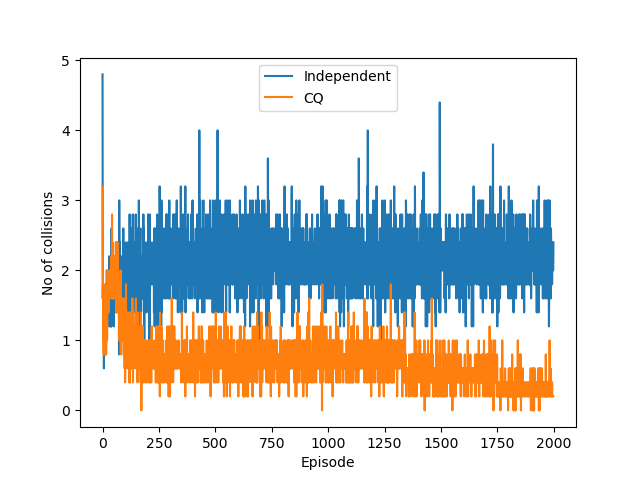
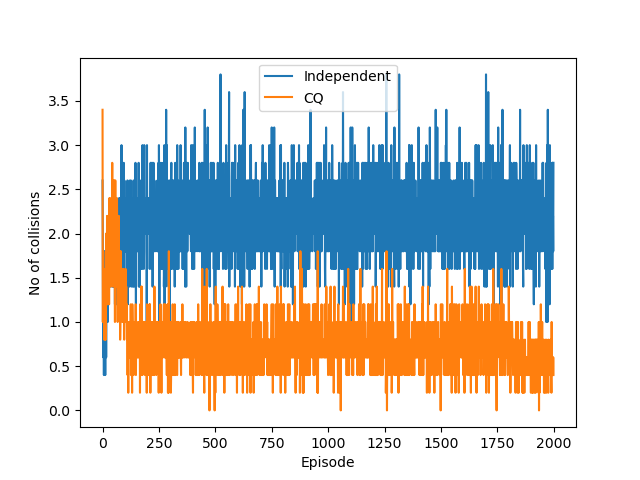
Again fix reward less than mean check

diff --git a/cq/cqlearners.py b/cq/cqlearners.py
@@ -144,8 +144,9 @@ class CQLearner:
         if not (latest_rewards and len(latest_rewards[action]) == self.sliding_window_size):
                 return False
     
-        t_test = stats.ttest_1samp(latest_rewards[action], popmean=reward)        
-        is_reward_greater = t_test.statistic < 0
-        is_confident = t_test.pvalue < 0.2
+        t_test = stats.ttest_1samp(latest_rewards[action], popmean=reward, alternative="less")
+        # is_reward_greater = t_test.statistic < 0
+
+        is_confident = t_test.pvalue < 0.5
         
-        return not (is_reward_greater and is_confident)
+        return not is_confident
